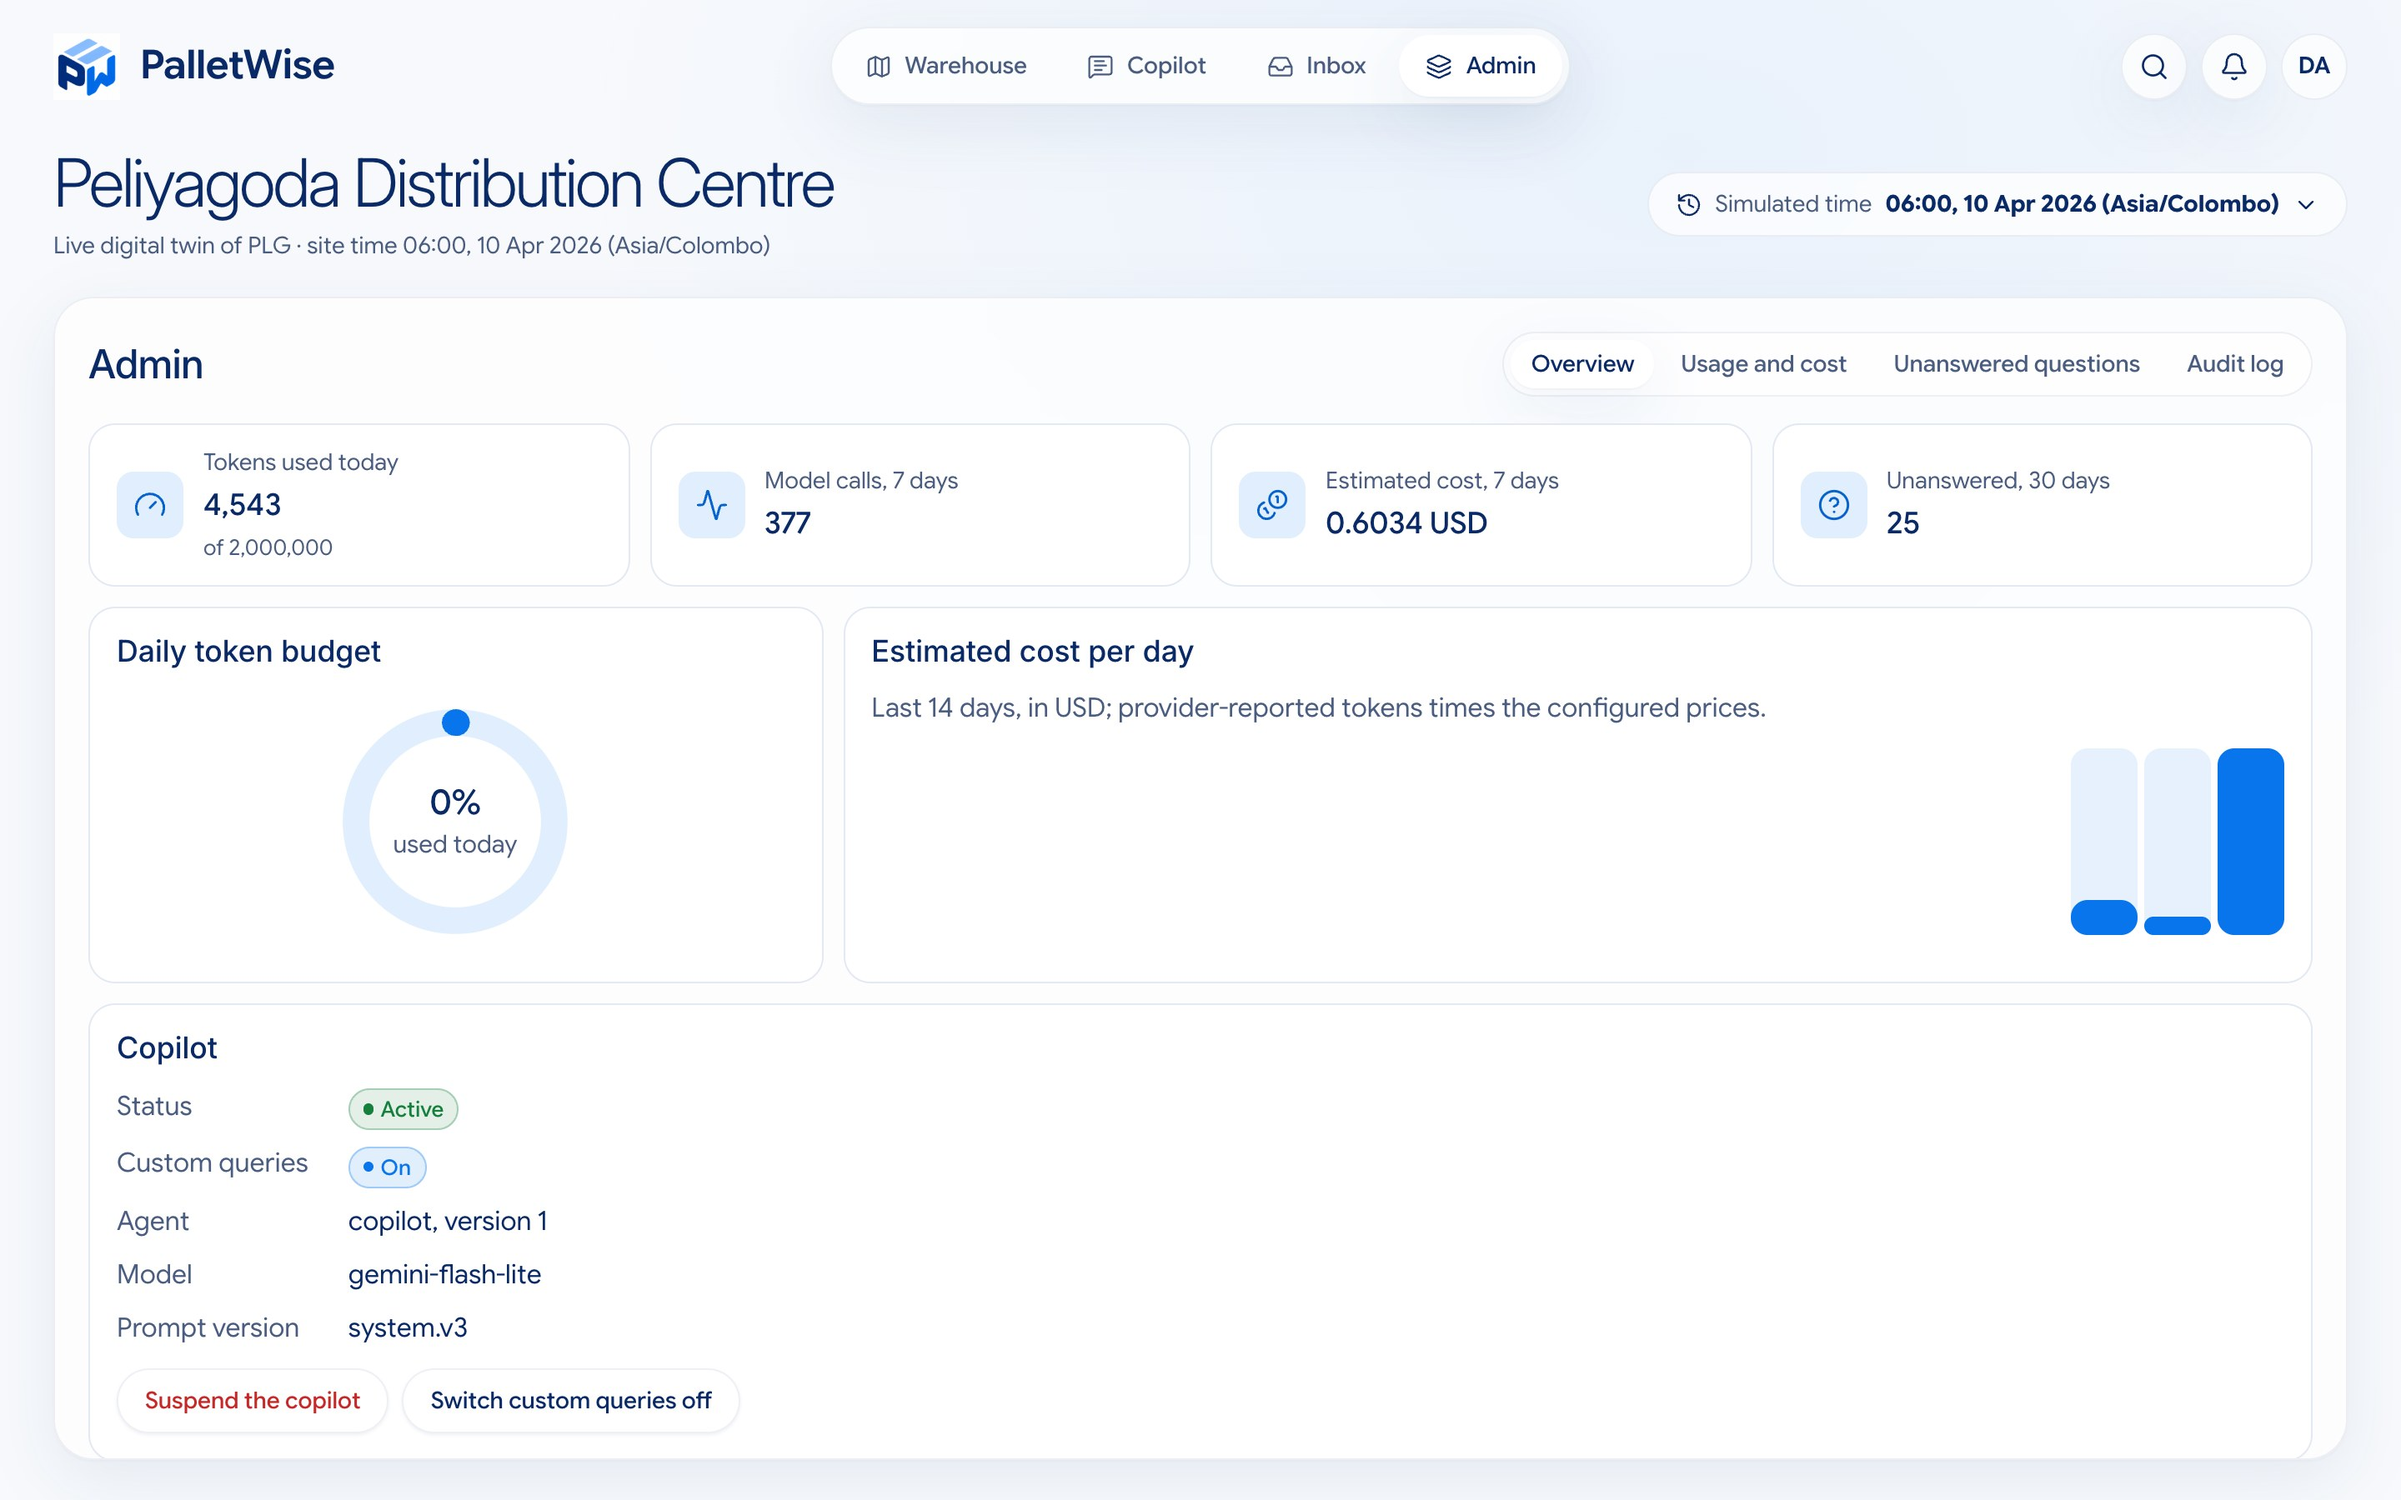
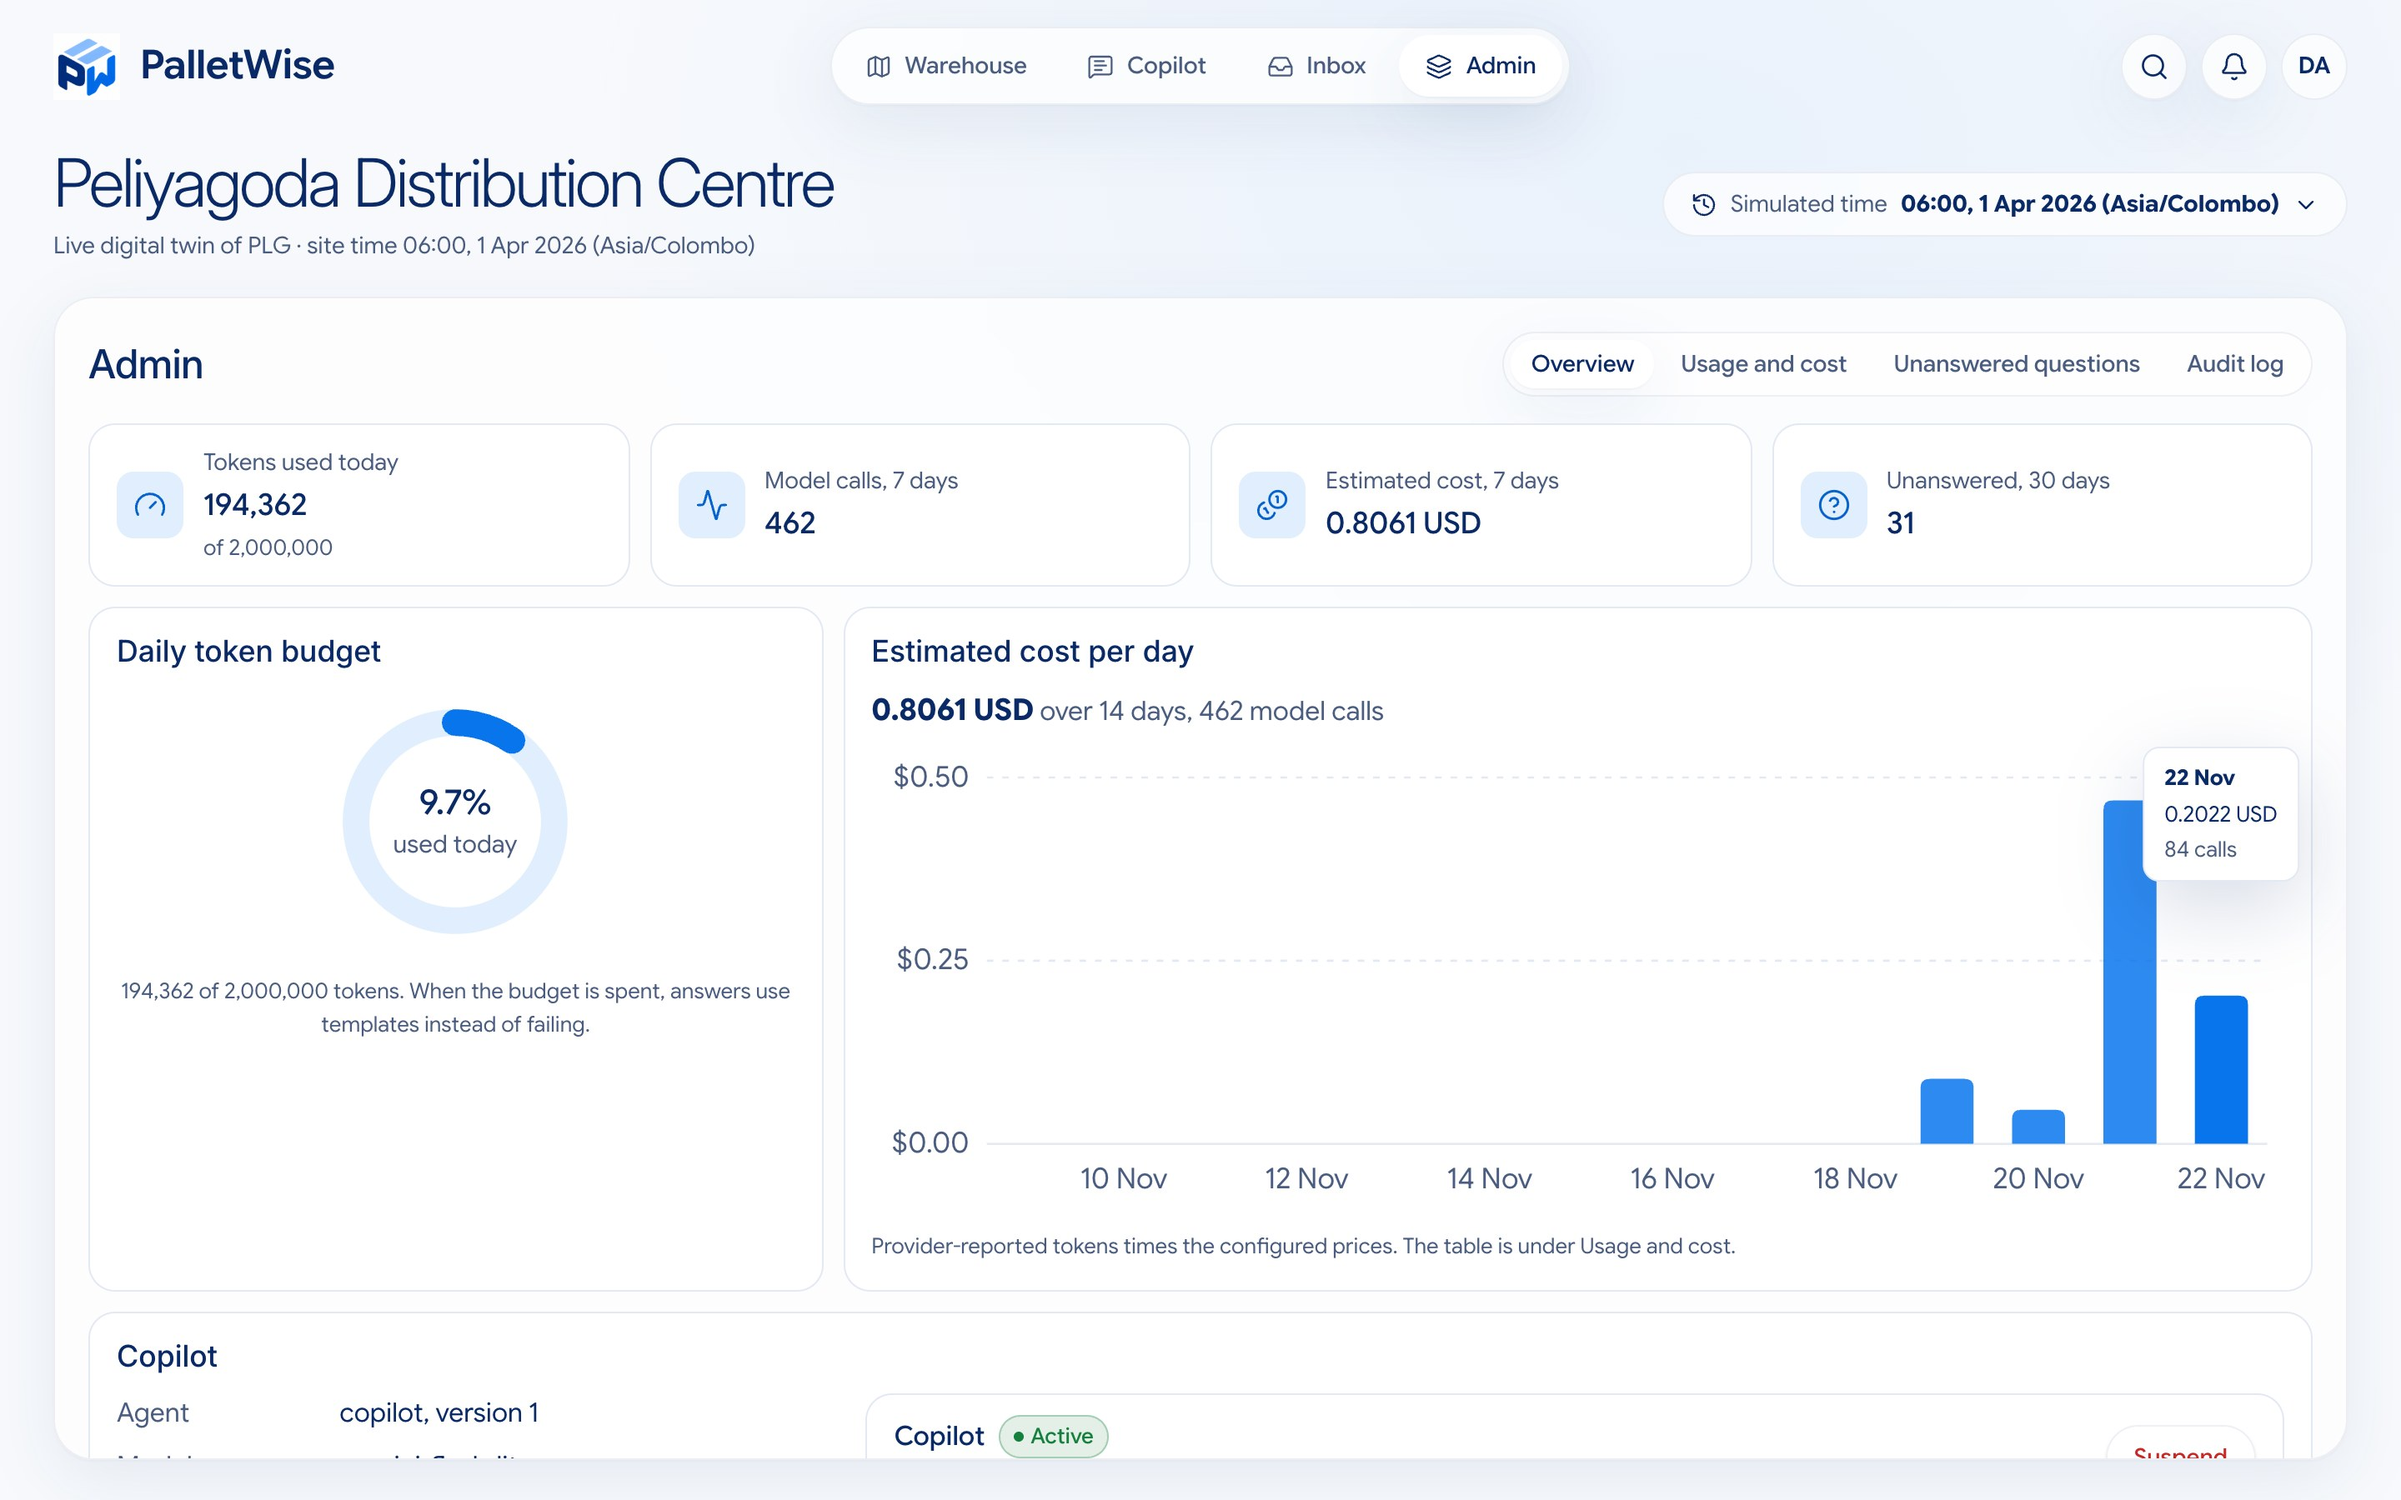
edit the readme: new admin panel screenshot; chart day labels no longer collide

diff --git a/apps/web/src/features/admin/CostChart.tsx b/apps/web/src/features/admin/CostChart.tsx
@@ -117,7 +117,7 @@ export function CostChart({ rows }: { rows: UsageRow[] }) {
                     d={bar(x, Math.min(y(d.cost), base - 2), barW, base)}
                   />
                 )}
-                {(i % 2 === days.length % 2 || i === days.length - 1) && (
+                {(days.length - 1 - i) % 2 === 0 && (
                   <text className="pw-chart-tick" x={x + barW / 2} y={H - 10} textAnchor="middle">
                     {label(d.day)}
                   </text>
